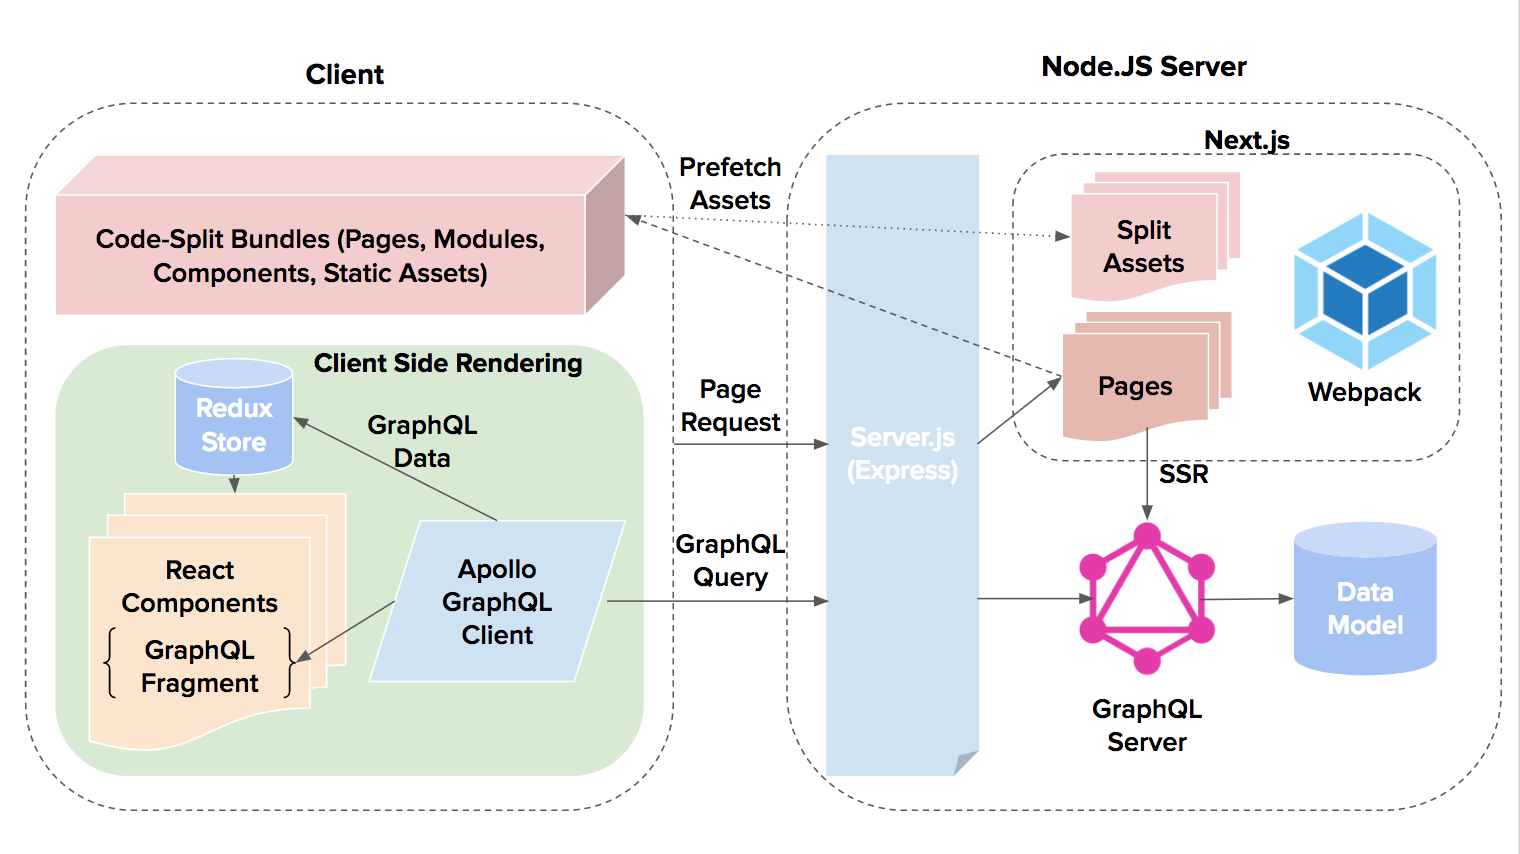
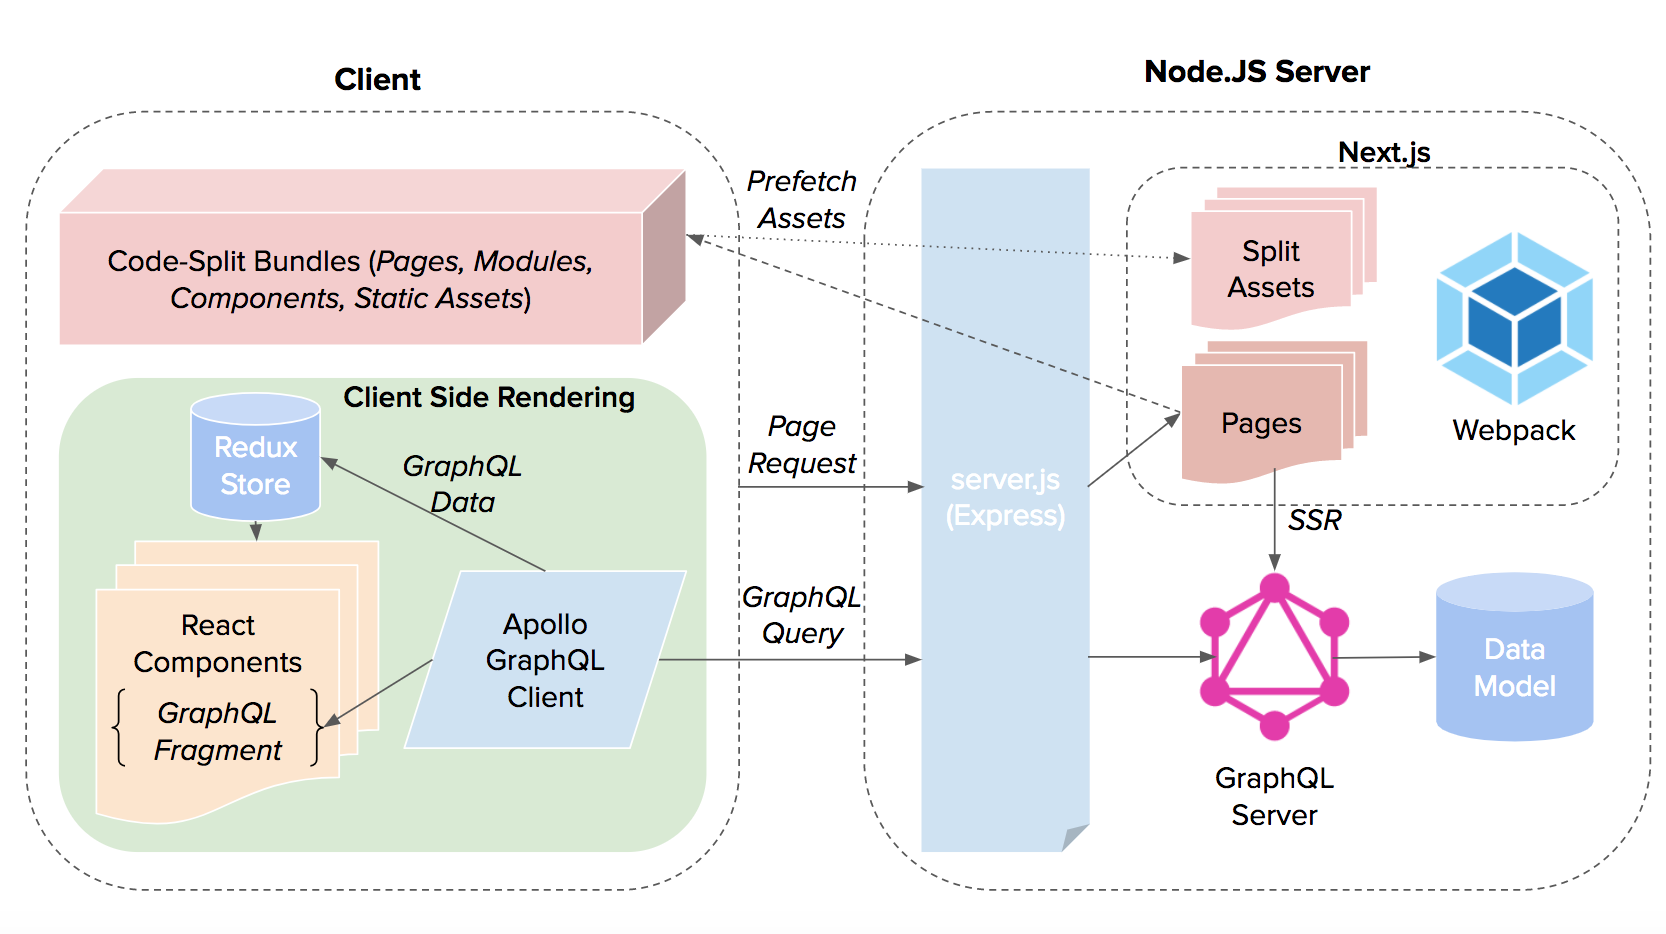
Centered architecture diagram presentation in README and added some further reading links. Fixed blip in the image.

diff --git a/README.md b/README.md
@@ -54,13 +54,20 @@ This project is a clone of hacker news rewritten with universal Javascript, usin
 
 ### Architecture Overview
 
-<img alt="Hacker News Clone Architecture Overview" width="auto" height="auto" src="docs/HN-Clone-Architecture-overview.png">
+<p align="center">
+  <img alt="Hacker News Clone Architecture Overview" width="auto" height="400px" src="docs/HN-Clone-Architecture-overview.png">
+</p>
 
-### Execution Path
+*Server.js* is the entry point. It uses Express and passes requests to Next. Next SSR renders the pages using ```getInitialProps()``` hook from Apollo helper. Therefore the app makes GraphQL requests on the client or server.
 
-*Server.js* is the entry point. It uses Express and passes requests to Next. Next SSR renders the pages using *getInitialProps* hook from Apollo helper. Therefore the app makes GraphQL requests on the client or server.
+When the client receives the page it preloads next page JS designated with ```<Link prefetch href="/">```. When the client navigates to the linked page it only needs to make a GraphQL query to render. *Great!*
 
-When the client receives the page it preloads next page JS designated with <Link prefetch *href="/"*>. When the client navigates to the linked page it only needs to make a GraphQL query to render. *Great!*
+See more: <a href="https://github.com/zeit/next.js/">Next.js</a>,
+<a href="http://dev.apollodata.com/react/">Apollo GraphQL Client</a>
+
+GraphQL: <a href="http://dev.apollodata.com/tools/graphql-tools/index.html">GraphQL-Tools by Apollo</a> 
+or
+<a href="http://graphql.org/graphql-js/">GraphQL docs</a>
 
 ### Directory Structure
 
